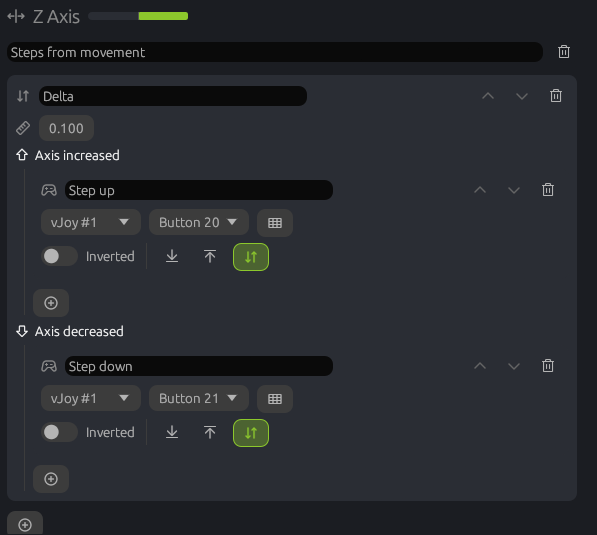
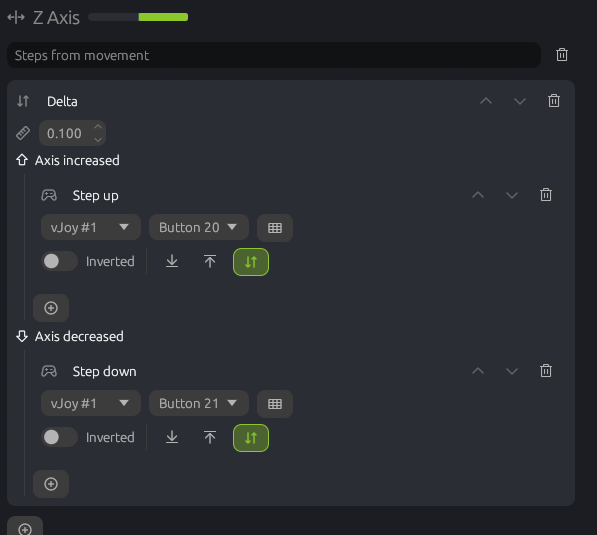
docs: README and website for 0.10.0, new pictures of every action editor

diff --git a/site/learn.html b/site/learn.html
@@ -178,6 +178,7 @@
               <li><i class="ph-bold ph-check" aria-hidden="true"></i><span><strong>When it runs.</strong> Button actions have three switches: on press, on release, or both. Both follows the button, so a vJoy button is held exactly as long as yours.</span></li>
               <li><i class="ph-bold ph-check" aria-hidden="true"></i><span><strong>Containers.</strong> Some actions hold other actions: tempo, double tap, condition, split axis and others. Their children are edited inside them.</span></li>
               <li><i class="ph-bold ph-check" aria-hidden="true"></i><span><strong>Names.</strong> The name above the list names the input; it also shows on the input's card. It, the title of every action and description notes read as text: click one to edit it, then press Enter or click elsewhere.</span></li>
+              <li><i class="ph-bold ph-check" aria-hidden="true"></i><span><strong>Numbers.</strong> Type a value, click the arrows, or turn the mouse wheel over the field; Shift moves it ten steps at a time.</span></li>
             </ul>
             <figure class="shot"><img src="img/devices.png" loading="lazy" width="1102" height="732" alt="Devices page: the inputs of a stick on the left, the actions of the selected button on the right"></figure>
           </article>

diff --git a/README.md b/README.md
@@ -43,10 +43,14 @@ imports Joystick Gremlin profiles and keeps the workflow you know.
   made on another PC to your devices.
 - **Every Gremlin action** — map to vJoy, response curves, tempo, double tap, chain, macros, keyboard and mouse
   output, merge and split axis, conditions, sounds, text to speech and more — plus modes, undo / redo.
+- **New profile wizard**: name the profile, pick the virtual joystick each stick maps to, and every axis, button
+  and hat is mapped at once.
 - **Modifiers and layers**: hold M1, M2 or both and the same button or axis does something else.
-- **Virtual joysticks and gamepads** configured right in the app; profiles remember the ones they use.
+- **Virtual joysticks and gamepads** configured right in the app; profiles remember the ones they use, and the
+  tester shows which outputs the profile uses and where two inputs fight over one.
 - **Device hiding** with one click on a stick's eye, so games see only the virtual devices.
-- **Input viewer and calibration**, tray icon, light and dark theme, seven languages.
+- **Input viewer and calibration**, with a jitter filter for worn axes and debounce for bouncing buttons; tray
+  icon, light and dark theme that follow the system, seven languages.
 
 | | Windows 10 / 11 | Linux |
 | --- | --- | --- |
@@ -61,11 +65,12 @@ Everything else — every action with a picture of its editor, Windows and Linux
 
 **Windows 10 / 11 (x64):** download the installer from the
 [latest release](https://github.com/h0useRus/JoystickGobloon/releases/latest) (or the portable zip). It installs the
-signed **HidHide** and **vJoy 2.1.9.1** drivers when they are missing. Import your Joystick Gremlin profile, use
-**Map controls** on the Devices page if it was made on another PC, hide your sticks and press **Activate** (▶).
+signed **HidHide** and **vJoy 2.1.9.1** drivers when they are missing. Import your Joystick Gremlin profile (use
+**Map controls** on the Devices page if it was made on another PC) or start one with the **wizard** (the wand
+button), hide your sticks and press **Activate** (▶).
 
 **Linux (x86_64):** download `JoystickGobloon-<version>-x86_64.AppImage`, `chmod +x` it and start it. Click
-**Grant access** once on the Devices page, then import your profile as above.
+**Grant access** once on the Devices page, then import your profile or use the wizard as above.
 
 Code signing through SignPath is being set up ([code signing policy](docs/CODE_SIGNING.md)); until then Windows
 SmartScreen may warn on the first start: *More info → Run anyway*.
